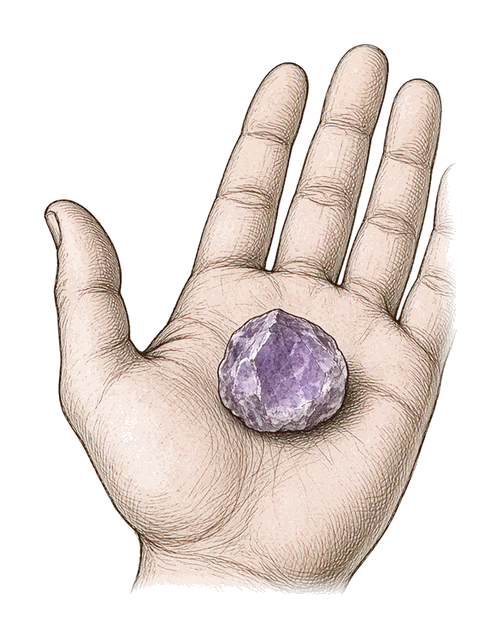
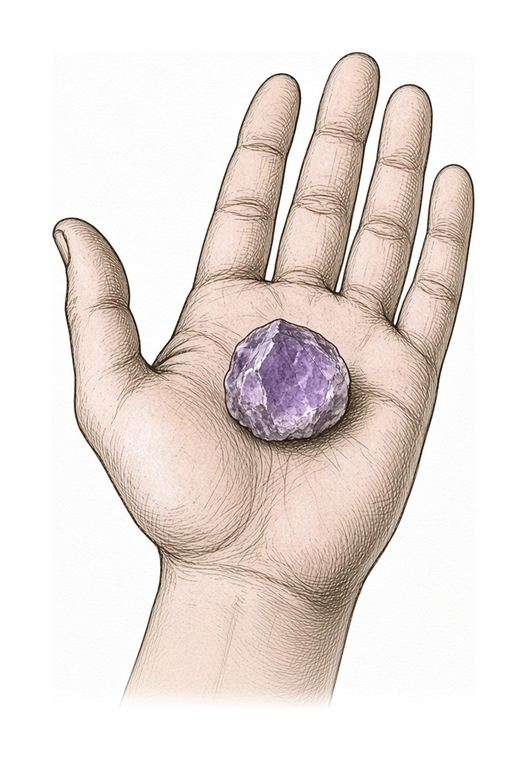
Aggiunge/aggiorna il mockup grimorio (solo grimorio/)

diff --git a/grimorio/libro/ametista.html b/grimorio/libro/ametista.html
@@ -57,7 +57,7 @@
     <div class="lb-flip"><div class="pg pg--cover pg--hard" data-density="hard" data-n="0"><div class="cv"><img class="cv-img" src="assets/img/copertina.webp" alt="" width="768" height="1024" fetchpriority="low">
   <p class="cv-t" aria-hidden="true"><span>Dell’ametista</span></p></div></div><div class="pg pg--hard pg--end pg--l" data-density="hard" data-n="1" aria-hidden="true"><div class="end"></div></div><div class="pg pg--text pg--r pg--front" data-n="2"><div class="pg-in"><div class="pg-body">
   <p class="fr-k">Libro delle pietre</p><p class="fr-t">Dell’ametista</p><p class="fr-s">quarzo viola, pietra di febbraio</p><figure class="pg-fig fig--front"><img src="assets/img/ill-druse.webp" alt="Illustrazione in stile manoscritto antico di una drusa di ametista grezza con cristalli viola su matrice di roccia, a inchiostro e acquerello" width="640" height="636" loading="lazy" decoding="async"></figure>
-  <p class="fr-i">Origine · Nella tradizione<br>Come si usava · Si crede</p></div></div></div><div class="pg pg--text pg--l pg--open" data-n="3" data-cap="origine" data-tab="Origine"><div class="pg-in"><p class="pg-rh" aria-hidden="true">Dell’ametista · Origine</p><div class="pg-body"><p class="pg-cap">Capitolo primo</p><h3 class="pg-h" id="cap-origine">Nasce nel buio della roccia</h3><p class="dc">L’ametista è un quarzo, parente stretto del cristallo di rocca. Il viola le viene da tracce di ferro rimaste nel cristallo mentre cresceva: poche, ma bastano a colorarlo dal lilla pallido al viola profondo.</p><figure class="pg-fig "><img src="assets/img/ill-geode.webp" alt="Illustrazione in stile manoscritto di un geode di ametista aperto a metà, con cristalli di quarzo viola che crescono verso il centro" width="550" height="640" loading="lazy" decoding="async"></figure></div><p class="pg-fo" aria-hidden="true">3</p></div></div><div class="pg pg--text pg--r " data-n="4"><div class="pg-in"><p class="pg-rh" aria-hidden="true">Dell’ametista · Origine</p><div class="pg-body"><h4 class="pg-h4">Come si forma</h4><p>Tutto comincia con la lava. Raffreddandosi, la roccia vulcanica trattiene bolle di gas che lasciano cavità a forma di mandorla. In tempi lunghissimi l’acqua ricca di silice vi passa dentro e deposita strato su strato: prima le bande chiare dell’agata, poi i cristalli, con le punte rivolte verso il centro.</p><figure class="pg-fig "><img src="assets/img/ill-sezione.webp" alt="Illustrazione in stile manoscritto della sezione di una roccia vulcanica con cavità piene di cristalli di ametista, come si forma la pietra" width="640" height="489" loading="lazy" decoding="async"></figure></div><p class="pg-fo" aria-hidden="true">4</p></div></div><div class="pg pg--text pg--l " data-n="5"><div class="pg-in"><p class="pg-rh" aria-hidden="true">Dell’ametista · Origine</p><div class="pg-body"><h4 class="pg-h4">In breve</h4><dl class="pg-dl"><div><dt>Famiglia</dt><dd>quarzo</dd></div><div><dt>Colore</dt><dd>dal lilla al viola profondo</dd></div><div><dt>Durezza</dt><dd>7 nella scala di Mohs</dd></div><div><dt>Giacimenti</dt><dd>soprattutto Brasile e Uruguay</dd></div><div><dt>Mese</dt><dd>febbraio</dd></div></dl><p>Il pezzo che ricevi è grezzo, di tre o quattro centimetri, con la sua matrice grigio-bruna.</p><p>Al sole forte, col tempo, il viola si schiarisce: meglio tenerla all’ombra.</p><figure class="pg-fig fig--sm"><img src="assets/img/ill-punta.webp" alt="Illustrazione in stile manoscritto di una piccola punta di ametista grezza accanto a un rametto di lavanda" width="330" height="280" loading="lazy" decoding="async"></figure></div><p class="pg-fo" aria-hidden="true">5</p></div></div><div class="pg pg--text pg--r pg--open" data-n="6" data-cap="tradizione" data-tab="Nella tradizione"><div class="pg-in"><p class="pg-rh" aria-hidden="true">Dell’ametista · Nella tradizione</p><div class="pg-body"><p class="pg-cap">Capitolo secondo</p><h3 class="pg-h" id="cap-tradizione">Il vino e la pietra</h3><p class="dc">Il nome viene dal greco <i>amethystos</i>, «non ebbro». Nell’antichità si credeva che tenesse lontana l’ebbrezza: per questo il suo nome è rimasto legato a quello del vino.</p><figure class="pg-fig "><img src="assets/img/ill-kylix.webp" alt="Illustrazione in stile manoscritto di una kylix, coppa greca da vino, con grappolo d’uva e cristallo di ametista, simbolo di sobrietà" width="640" height="568" loading="lazy" decoding="async"></figure></div><p class="pg-fo" aria-hidden="true">6</p></div></div><div class="pg pg--text pg--l " data-n="7"><div class="pg-in"><p class="pg-rh" aria-hidden="true">Dell’ametista · Nella tradizione</p><div class="pg-body"><h4 class="pg-h4">La ninfa e il dio</h4><p>Una leggenda racconta di una ninfa di nome Ametista. Per salvarla da Bacco, la dea Diana la trasformò in un cristallo limpido. Il dio, pentito, versò sulla pietra il suo vino, e da allora quel cristallo è viola.</p><figure class="pg-fig "><img src="assets/img/ill-ninfa.webp" alt="Illustrazione in stile manoscritto della leggenda dell’ametista: la ninfa che diventa cristallo e Bacco che versa il vino sulla pietra" width="640" height="587" loading="lazy" decoding="async"></figure></div><p class="pg-fo" aria-hidden="true">7</p></div></div><div class="pg pg--text pg--r " data-n="8"><div class="pg-in"><p class="pg-rh" aria-hidden="true">Dell’ametista · Nella tradizione</p><div class="pg-body"><p>La leggenda è molto più giovane del nome, ma da secoli accompagna la pietra.</p><h4 class="pg-h4">La pietra dei vescovi</h4><p>Nel Medioevo l’ametista veniva montata negli anelli dei vescovi, come segno di misura e sobrietà.</p><figure class="pg-fig "><img src="assets/img/ill-anello.webp" alt="Illustrazione in stile manoscritto di un anello vescovile antico in oro con ametista a taglio quadro" width="472" height="389" loading="lazy" decoding="async"></figure><p>Oggi è la pietra di chi nasce a febbraio.</p></div><p class="pg-fo" aria-hidden="true">8</p></div></div><div class="pg pg--text pg--l pg--open" data-n="9" data-cap="uso" data-tab="Come si usava"><div class="pg-in"><p class="pg-rh" aria-hidden="true">Dell’ametista · Come si usava</p><div class="pg-body"><p class="pg-cap">Capitolo terzo</p><h3 class="pg-h" id="cap-uso">Accanto al letto, la sera</h3><p class="dc">Nella tradizione l’ametista si teneva accanto al letto: sotto il cuscino, sul comodino, in una ciotola vicino alla candela. Era la pietra della sera, l’ultima cosa da guardare prima di spegnere la luce.</p><figure class="pg-fig "><img src="assets/img/ill-rituale.webp" alt="Illustrazione in stile manoscritto di una pietra di ametista su una lastra di selenite accanto a una candela accesa, rituale della sera" width="640" height="635" loading="lazy" decoding="async"></figure></div><p class="pg-fo" aria-hidden="true">9</p></div></div><div class="pg pg--text pg--r " data-n="10"><div class="pg-in"><p class="pg-rh" aria-hidden="true">Dell’ametista · Come si usava</p><div class="pg-body"><h4 class="pg-h4">In meditazione</h4><p>Chi medita la tiene nel palmo, a occhi chiusi, e lascia che il respiro rallenti. C’è chi la appoggia sulla fronte, tra le sopracciglia, per qualche minuto.</p><figure class="pg-fig  fig--sm"><img src="assets/img/ill-mano.webp" alt="Illustrazione in stile manoscritto di una mano sinistra aperta che tiene un’ametista grezza nel palmo, per la meditazione" width="502" height="640" loading="lazy" decoding="async"></figure><p>Basta un momento di silenzio, con la pietra in mano.</p><p class="pg-note">Nella tradizione si usa la mano sinistra, quella che riceve.</p></div><p class="pg-fo" aria-hidden="true">10</p></div></div><div class="pg pg--text pg--l " data-n="11"><div class="pg-in"><p class="pg-rh" aria-hidden="true">Dell’ametista · Come si usava</p><div class="pg-body"><h4 class="pg-h4">Come si cura</h4><ul class="pg-ul"><li>Si crede che una notte su un piatto di selenite la ricarichi.</li><li>Per pulirla, acqua corrente e un panno morbido.</li><li>Da sola in un sacchetto di stoffa: è dura e può graffiare le pietre più tenere.</li></ul><figure class="pg-fig fig--sm"><img src="assets/img/ill-cura.webp" alt="Illustrazione in stile manoscritto di come curare l’ametista: sacchetto di lino, barretta di selenite per ricaricarla, panno e pietra" width="640" height="482" loading="lazy" decoding="async"></figure></div><p class="pg-fo" aria-hidden="true">11</p></div></div><div class="pg pg--text pg--r pg--open" data-n="12" data-cap="credenze" data-tab="Si crede"><div class="pg-in"><p class="pg-rh" aria-hidden="true">Dell’ametista · Si crede</p><div class="pg-body"><p class="pg-cap">Capitolo quarto</p><h3 class="pg-h" id="cap-credenze">La pietra della calma</h3><p class="dc">Si crede che l’ametista aiuti a ritrovare quiete quando la mente è troppo piena, e che accompagni l’intuizione. Per questo la si trova spesso tra le mani di chi medita.</p><figure class="pg-fig "><img src="assets/img/ill-meditazione.webp" alt="Illustrazione in stile manoscritto di una donna in meditazione con un’ametista tra le mani sotto una falce di luna" width="500" height="640" loading="lazy" decoding="async"></figure></div><p class="pg-fo" aria-hidden="true">12</p></div></div><div class="pg pg--text pg--l " data-n="13"><div class="pg-in"><p class="pg-rh" aria-hidden="true">Dell’ametista · Si crede</p><div class="pg-body"><h4 class="pg-h4">Corona e terzo occhio</h4><p>Nella tradizione dei chakra è legata al settimo, la corona, in cima alla testa, e al sesto, il terzo occhio, tra le sopracciglia.</p><p>Prima di usarla, c’è chi la tiene tra le mani e le affida un’intenzione semplice, detta a bassa voce.</p><p class="pg-ex">Qui finisce il libro dell’ametista.</p><figure class="pg-fig fig--fin" aria-hidden="true"><img src="assets/img/ill-finale.webp" alt="" width="544" height="503" loading="lazy" decoding="async"></figure></div><p class="pg-fo" aria-hidden="true">13</p></div></div><div class="pg pg--hard pg--end pg--r" data-density="hard" data-n="14" aria-hidden="true"><div class="end"></div></div><div class="pg pg--cover pg--back pg--hard" data-density="hard" data-n="15" aria-hidden="true"><div class="cv"><img class="cv-img" src="assets/img/copertina.webp" alt="" width="768" height="1024" loading="lazy"></div></div></div>
+  <p class="fr-i">Origine · Nella tradizione<br>Come si usava · Si crede</p></div></div></div><div class="pg pg--text pg--l pg--open" data-n="3" data-cap="origine" data-tab="Origine"><div class="pg-in"><p class="pg-rh" aria-hidden="true">Dell’ametista · Origine</p><div class="pg-body"><p class="pg-cap">Capitolo primo</p><h3 class="pg-h" id="cap-origine">Nasce nel buio della roccia</h3><p class="dc">L’ametista è un quarzo, parente stretto del cristallo di rocca. Il viola le viene da tracce di ferro rimaste nel cristallo mentre cresceva: poche, ma bastano a colorarlo dal lilla pallido al viola profondo.</p><figure class="pg-fig "><img src="assets/img/ill-geode.webp" alt="Illustrazione in stile manoscritto di un geode di ametista aperto a metà, con cristalli di quarzo viola che crescono verso il centro" width="550" height="640" loading="lazy" decoding="async"></figure></div><p class="pg-fo" aria-hidden="true">3</p></div></div><div class="pg pg--text pg--r " data-n="4"><div class="pg-in"><p class="pg-rh" aria-hidden="true">Dell’ametista · Origine</p><div class="pg-body"><h4 class="pg-h4">Come si forma</h4><p>Tutto comincia con la lava. Raffreddandosi, la roccia vulcanica trattiene bolle di gas che lasciano cavità a forma di mandorla. In tempi lunghissimi l’acqua ricca di silice vi passa dentro e deposita strato su strato: prima le bande chiare dell’agata, poi i cristalli, con le punte rivolte verso il centro.</p><figure class="pg-fig "><img src="assets/img/ill-sezione.webp" alt="Illustrazione in stile manoscritto della sezione di una roccia vulcanica con cavità piene di cristalli di ametista, come si forma la pietra" width="640" height="489" loading="lazy" decoding="async"></figure></div><p class="pg-fo" aria-hidden="true">4</p></div></div><div class="pg pg--text pg--l " data-n="5"><div class="pg-in"><p class="pg-rh" aria-hidden="true">Dell’ametista · Origine</p><div class="pg-body"><h4 class="pg-h4">In breve</h4><dl class="pg-dl"><div><dt>Famiglia</dt><dd>quarzo</dd></div><div><dt>Colore</dt><dd>dal lilla al viola profondo</dd></div><div><dt>Durezza</dt><dd>7 nella scala di Mohs</dd></div><div><dt>Giacimenti</dt><dd>soprattutto Brasile e Uruguay</dd></div><div><dt>Mese</dt><dd>febbraio</dd></div></dl><p>Il pezzo che ricevi è grezzo, di tre o quattro centimetri, con la sua matrice grigio-bruna.</p><p>Al sole forte, col tempo, il viola si schiarisce: meglio tenerla all’ombra.</p><figure class="pg-fig fig--sm"><img src="assets/img/ill-punta.webp" alt="Illustrazione in stile manoscritto di una piccola punta di ametista grezza accanto a un rametto di lavanda" width="330" height="280" loading="lazy" decoding="async"></figure></div><p class="pg-fo" aria-hidden="true">5</p></div></div><div class="pg pg--text pg--r pg--open" data-n="6" data-cap="tradizione" data-tab="Nella tradizione"><div class="pg-in"><p class="pg-rh" aria-hidden="true">Dell’ametista · Nella tradizione</p><div class="pg-body"><p class="pg-cap">Capitolo secondo</p><h3 class="pg-h" id="cap-tradizione">Il vino e la pietra</h3><p class="dc">Il nome viene dal greco <i>amethystos</i>, «non ebbro». Nell’antichità si credeva che tenesse lontana l’ebbrezza: per questo il suo nome è rimasto legato a quello del vino.</p><figure class="pg-fig "><img src="assets/img/ill-kylix.webp" alt="Illustrazione in stile manoscritto di una kylix, coppa greca da vino, con grappolo d’uva e cristallo di ametista, simbolo di sobrietà" width="640" height="568" loading="lazy" decoding="async"></figure></div><p class="pg-fo" aria-hidden="true">6</p></div></div><div class="pg pg--text pg--l " data-n="7"><div class="pg-in"><p class="pg-rh" aria-hidden="true">Dell’ametista · Nella tradizione</p><div class="pg-body"><h4 class="pg-h4">La ninfa e il dio</h4><p>Una leggenda racconta di una ninfa di nome Ametista. Per salvarla da Bacco, la dea Diana la trasformò in un cristallo limpido. Il dio, pentito, versò sulla pietra il suo vino, e da allora quel cristallo è viola.</p><figure class="pg-fig "><img src="assets/img/ill-ninfa.webp" alt="Illustrazione in stile manoscritto della leggenda dell’ametista: la ninfa che diventa cristallo e Bacco che versa il vino sulla pietra" width="640" height="587" loading="lazy" decoding="async"></figure></div><p class="pg-fo" aria-hidden="true">7</p></div></div><div class="pg pg--text pg--r " data-n="8"><div class="pg-in"><p class="pg-rh" aria-hidden="true">Dell’ametista · Nella tradizione</p><div class="pg-body"><p>La leggenda è molto più giovane del nome, ma da secoli accompagna la pietra.</p><h4 class="pg-h4">La pietra dei vescovi</h4><p>Nel Medioevo l’ametista veniva montata negli anelli dei vescovi, come segno di misura e sobrietà.</p><figure class="pg-fig "><img src="assets/img/ill-anello.webp" alt="Illustrazione in stile manoscritto di un anello vescovile antico in oro con ametista a taglio quadro" width="472" height="389" loading="lazy" decoding="async"></figure><p>Oggi è la pietra di chi nasce a febbraio.</p></div><p class="pg-fo" aria-hidden="true">8</p></div></div><div class="pg pg--text pg--l pg--open" data-n="9" data-cap="uso" data-tab="Come si usava"><div class="pg-in"><p class="pg-rh" aria-hidden="true">Dell’ametista · Come si usava</p><div class="pg-body"><p class="pg-cap">Capitolo terzo</p><h3 class="pg-h" id="cap-uso">Accanto al letto, la sera</h3><p class="dc">Nella tradizione l’ametista si teneva accanto al letto: sotto il cuscino, sul comodino, in una ciotola vicino alla candela. Era la pietra della sera, l’ultima cosa da guardare prima di spegnere la luce.</p><figure class="pg-fig "><img src="assets/img/ill-rituale.webp" alt="Illustrazione in stile manoscritto di una pietra di ametista su una lastra di selenite accanto a una candela accesa, rituale della sera" width="640" height="635" loading="lazy" decoding="async"></figure></div><p class="pg-fo" aria-hidden="true">9</p></div></div><div class="pg pg--text pg--r " data-n="10"><div class="pg-in"><p class="pg-rh" aria-hidden="true">Dell’ametista · Come si usava</p><div class="pg-body"><h4 class="pg-h4">In meditazione</h4><p>Chi medita la tiene nel palmo, a occhi chiusi, e lascia che il respiro rallenti. C’è chi la appoggia sulla fronte, tra le sopracciglia, per qualche minuto.</p><figure class="pg-fig  fig--sm"><img src="assets/img/ill-mano.webp?v=g7" alt="Illustrazione in stile manoscritto di una mano sinistra aperta che tiene un’ametista grezza nel palmo, per la meditazione" width="527" height="760" loading="lazy" decoding="async"></figure><p>Basta un momento di silenzio, con la pietra in mano.</p><p class="pg-note">Nella tradizione si usa la mano sinistra, quella che riceve.</p></div><p class="pg-fo" aria-hidden="true">10</p></div></div><div class="pg pg--text pg--l " data-n="11"><div class="pg-in"><p class="pg-rh" aria-hidden="true">Dell’ametista · Come si usava</p><div class="pg-body"><h4 class="pg-h4">Come si cura</h4><ul class="pg-ul"><li>Si crede che una notte su un piatto di selenite la ricarichi.</li><li>Per pulirla, acqua corrente e un panno morbido.</li><li>Da sola in un sacchetto di stoffa: è dura e può graffiare le pietre più tenere.</li></ul><figure class="pg-fig fig--sm"><img src="assets/img/ill-cura.webp" alt="Illustrazione in stile manoscritto di come curare l’ametista: sacchetto di lino, barretta di selenite per ricaricarla, panno e pietra" width="640" height="482" loading="lazy" decoding="async"></figure></div><p class="pg-fo" aria-hidden="true">11</p></div></div><div class="pg pg--text pg--r pg--open" data-n="12" data-cap="credenze" data-tab="Si crede"><div class="pg-in"><p class="pg-rh" aria-hidden="true">Dell’ametista · Si crede</p><div class="pg-body"><p class="pg-cap">Capitolo quarto</p><h3 class="pg-h" id="cap-credenze">La pietra della calma</h3><p class="dc">Si crede che l’ametista aiuti a ritrovare quiete quando la mente è troppo piena, e che accompagni l’intuizione. Per questo la si trova spesso tra le mani di chi medita.</p><figure class="pg-fig "><img src="assets/img/ill-meditazione.webp" alt="Illustrazione in stile manoscritto di una donna in meditazione con un’ametista tra le mani sotto una falce di luna" width="500" height="640" loading="lazy" decoding="async"></figure></div><p class="pg-fo" aria-hidden="true">12</p></div></div><div class="pg pg--text pg--l " data-n="13"><div class="pg-in"><p class="pg-rh" aria-hidden="true">Dell’ametista · Si crede</p><div class="pg-body"><h4 class="pg-h4">Corona e terzo occhio</h4><p>Nella tradizione dei chakra è legata al settimo, la corona, in cima alla testa, e al sesto, il terzo occhio, tra le sopracciglia.</p><p>Prima di usarla, c’è chi la tiene tra le mani e le affida un’intenzione semplice, detta a bassa voce.</p><p class="pg-ex">Qui finisce il libro dell’ametista.</p><figure class="pg-fig fig--fin" aria-hidden="true"><img src="assets/img/ill-finale.webp" alt="" width="544" height="503" loading="lazy" decoding="async"></figure></div><p class="pg-fo" aria-hidden="true">13</p></div></div><div class="pg pg--hard pg--end pg--r" data-density="hard" data-n="14" aria-hidden="true"><div class="end"></div></div><div class="pg pg--cover pg--back pg--hard" data-density="hard" data-n="15" aria-hidden="true"><div class="cv"><img class="cv-img" src="assets/img/copertina.webp" alt="" width="768" height="1024" loading="lazy"></div></div></div>
     <div class="lb-ribbon" aria-hidden="true"><div class="rb-rot"><i class="rb-band rb-band--l"></i><i class="rb-band rb-band--r"></i></div><div class="rb-knot"><img class="rb-nodo" src="assets/img/nastro/nodo.webp" alt="" width="360" height="354"></div></div>
     <button class="lb-open" type="button" aria-label="Sciogli il nastro e apri il libro"></button>
     <nav class="lb-tabs" aria-label="Capitoli del libro"><div class="lb-tabs--v"><button class="tab tab--v tab-0" type="button" data-to="3" aria-label="Vai al capitolo «Origine»" aria-controls="lb-stage"><span>Origine</span></button><button class="tab tab--v tab-1" type="button" data-to="6" aria-label="Vai al capitolo «Nella tradizione»" aria-controls="lb-stage"><span>Nella tradizione</span></button><button class="tab tab--v tab-2" type="button" data-to="9" aria-label="Vai al capitolo «Come si usava»" aria-controls="lb-stage"><span>Come si usava</span></button><button class="tab tab--v tab-3" type="button" data-to="12" aria-label="Vai al capitolo «Si crede»" aria-controls="lb-stage"><span>Si crede</span></button></div></nav>
